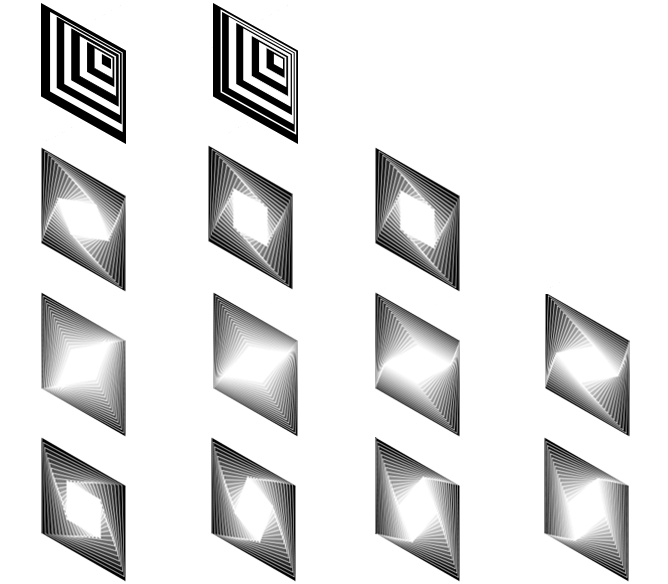
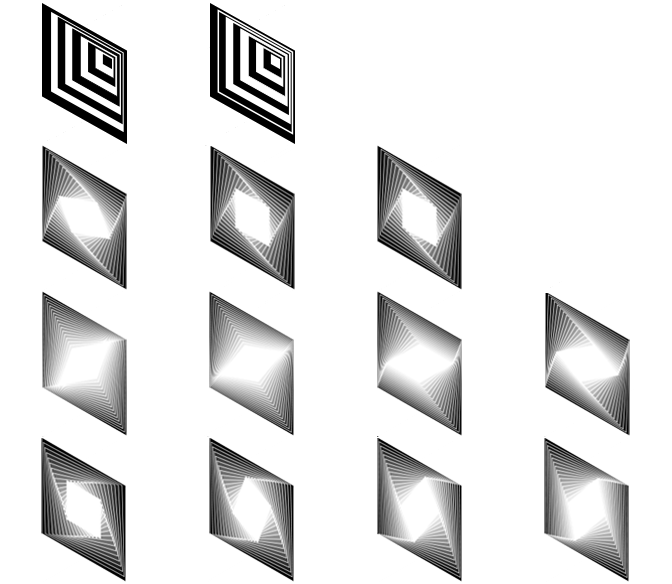
Animation visual updates.

diff --git a/Crystallography/Crystallography/CardCrystallonEntity.cs b/Crystallography/Crystallography/CardCrystallonEntity.cs
@@ -19,8 +19,12 @@ namespace Crystallography
 		protected readonly static float DEFAULT_SPEED = 0.3f;
 		
 //		protected readonly static BlendFunc animBlend = new BlendFunc(BlendFuncMode.Add, BlendFuncFactor.DstColor, BlendFuncFactor.SrcAlpha);
-		protected readonly static BlendFunc animBlend = new BlendFunc(BlendFuncMode.Subtract, BlendFuncFactor.DstColor, BlendFuncFactor.Zero);
+//		protected readonly static BlendFunc animBlend = new BlendFunc(BlendFuncMode.Subtract, BlendFuncFactor.DstColor, BlendFuncFactor.Zero);
 		
+//		protected ShaderProgram ShaderProgram;
+//		protected Texture2D AnimTexture;
+//		protected ImmediateModeQuads< VertexData > imm_quads;
+//		protected int frame;
 		
 		protected SpriteTile _anim;
 //		protected SpriteTile _mask;
@@ -31,7 +35,7 @@ namespace Crystallography
 		protected Label countdownText;
 		public int countdown;
 		
-		// GET & SET ----------------------------------------------------------------
+		// GET & SET ------------------------------------------------------------------------------------------------------------------------------------------------------
 		
 		public SpriteTile GlowSprite { get; protected set;}
 		
@@ -73,7 +77,7 @@ namespace Crystallography
 			}
 		}
 		
-		// CONSTRUCTORS -------------------------------------------------------------
+		// CONSTRUCTORS --------------------------------------------------------------------------------------------------------------------------------------------------
 		
 		/// <summary>
 		/// Initializes a new instance of the <see cref="Crystallography.CardCrystallonEntity"/> class.
@@ -99,14 +103,34 @@ namespace Crystallography
 			id = pId;
 			_anim = null;
 			GlowSprite = null;
-			_sprite.Scale*=0.7f;
+			_sprite.Scale*=CARD_SCALAR;
 			setVelocity(DEFAULT_SPEED, GameScene.Random.NextAngle());
+			
+//			Node dummy = new Node();
+//			dummy.Scale = 1/_sprite.Scale;
+//			_sprite.AddChild(dummy);
+//			dummy.AdHocDraw += DrawAnim;
+			
+//			ShaderProgram = new ShaderProgram("/Application/shaders/rotate.cgx");
+//			AnimTexture  = new Texture2D("/Application/assets/animation/animation2.png", false);
+//			frame = 0;
+//			
+//			dummy.ScheduleInterval( (dt) => {
+//				frame++;
+//				if (frame > 10) {
+//					frame = 0;
+//				}
+//			}, 0.083f, 0);
+//			
+//			imm_quads = new ImmediateModeQuads< VertexData >( Director.Instance.GL, 4, VertexFormat.Float2, VertexFormat.Float2, VertexFormat.Float4 );
+//			_scene.AdHocDraw += DrawAnim;
+			
 #if DEBUG
 			Console.WriteLine(this.GetType().ToString() + " " + id.ToString() + " created");
 #endif
 		}
 		
-		// OVERRIDES -----------------------------------------------------------------
+		// OVERRIDES ----------------------------------------------------------------------------------------------------------------------------------------------------
 		
 		public override AbstractCrystallonEntity BeReleased(Vector2 pPosition) {
 			if (!AppMain.ORIENTATION_MATTERS) {
@@ -148,7 +172,56 @@ namespace Crystallography
 //			}
 		}
 		
-		// METHODS -------------------------------------------------------------------
+		// METHODS ------------------------------------------------------------------------------------------------------------------------------------------------------
+		
+//		public void DrawAnim() {
+//			Director.Instance.DrawHelpers.DrawCircle(new Vector2(Width/2.0f,Height/2.0f),60.0f,32);
+//			float x1, x2, y1, y2;
+//			Matrix4 transform = Director.Instance.GL.GetMVP();
+//				
+//			Director.Instance.GL.ModelMatrix.Push();
+//			Director.Instance.GL.ModelMatrix.SetIdentity();
+//			
+//			ShaderProgram.SetUniformValue(ShaderProgram.FindUniform("MVP"), ref transform);
+////			ShaderProgram.SetUniformValue(ShaderProgram.FindUniform("angle"), ref angle);
+//
+//			ShaderProgram.SetAttributeBinding(0, "iPosition");
+//			ShaderProgram.SetAttributeBinding(1, "iUV");
+//			ShaderProgram.SetAttributeBinding(2, "iColor");
+//
+//			Director.Instance.GL.Context.SetShaderProgram(ShaderProgram);
+//			
+//			imm_quads.ImmBeginQuads( 4 );
+////			imm_quads.ImmBeginQuads( (uint)ActiveQualityParticles );
+//			
+////			int frame = 0;
+//			
+//			Vector4 white = Colors.White;
+//			var column = frame % 4;
+//			var row = (frame - column) / 4;
+//			
+//			y1 = 0.25f * row; //(float)System.Math.Floor((float)frame/4.0f);
+//			y2 = 0.25f + y1;
+//			x1 = 0.25f * column; //((float)frame-y1*4.0f);
+//			x2 = 0.25f + x1;
+//			
+//			Vector2 z = Vector2.Zero;
+//			
+//			Director.Instance.GL.Context.SetTexture(0, AnimTexture);
+//			imm_quads.ImmAddQuad( 
+//				new VertexData() { position = z + new Vector2(0, 0), uv = new Vector2(x1, 1.0f-y1), color = white },
+//				new VertexData() { position = z + new Vector2(Width, 0), uv = new Vector2(x2, 1.0f-y1), color = white },
+//				new VertexData() { position = z + new Vector2(0, Height), uv = new Vector2(x1, 1.0f-y2), color = white },
+//				new VertexData() { position = z + new Vector2(Width, Height), uv = new Vector2(x2, 1.0f-y2), color = white }
+//			);
+//			
+//			imm_quads.ImmEndQuads();
+//			
+//			Director.Instance.GL.Context.SetShaderProgram(null);
+//			Director.Instance.GL.Context.SetVertexBuffer(0, null);
+//			Director.Instance.GL.ModelMatrix.Pop();
+//			
+//		}
 		
 		public void ShowGlow() {
 			if (GlowSprite==null) return;
@@ -173,16 +246,23 @@ namespace Crystallography
 //			_mask.BlendMode.BlendFunc = new BlendFunc(BlendFuncMode.Add, BlendFuncFactor.DstColor, BlendFuncFactor.One);
 //			_anim.BlendMode.BlendFunc = new BlendFunc(BlendFuncMode.ReverseSubtract, BlendFuncFactor.One, BlendFuncFactor.OneMinusSrcColor);
 //			_anim.BlendMode.BlendFunc = new BlendFunc(BlendFuncMode.Add, BlendFuncFactor.DstAlpha, BlendFuncFactor.OneMinusSrcAlpha);
-			_anim.BlendMode.BlendFunc = animBlend;
-			_anim.BlendMode.Enabled = true;
+//			_anim.BlendMode.BlendFunc = animBlend;
+//			_anim.BlendMode.Enabled = true;
 			_anim.RunAction( new Support.AnimationAction(_anim, pStart, pEnd, 0.083f*(1+pEnd-pStart), true) );
 
 			if (getOrientation() == 1) {
-				_anim.Rotation = new Vector2(1f,0f);
+//				_anim.Rotation = new Vector2(1f,0f);
 			} else if (getOrientation() == 2) {
-				_anim.Rotation = new Vector2(0.515038074910054f, -0.857167300702112f);
+				_anim.FlipU = true;
+//				_anim.Rotate(Sce.PlayStation.HighLevel.GameEngine2D.Base.Math.Deg2Rad(-60.0f));
+//				_anim.Rotation = new Vector2(0.515038074910054f, -0.857167300702112f);
+//				_anim.Rotation = new Vector2(0.5f, -0.866025403784439f); //60
 			} else {
-				_anim.Rotation = new Vector2(0.484809620246337f, 0.874619707139396f);
+//				_anim.Pivot = new Vector2(0.52f,0.54f);
+				_anim.Position = new Vector2(0.00f, 0.015f);
+//				_anim.Rotation = new Vector2(0.484809620246337f, 0.874619707139396f);
+//				_anim.Rotation = new Vector2(0.5f, 0.866025403784439f);
+				_anim.Rotate(Sce.PlayStation.HighLevel.GameEngine2D.Base.Math.Deg2Rad(-120.0f));
 			}
 			this.getNode().AddChild(_anim);
 //			this.getNode().AddChild(_mask);
@@ -213,11 +293,18 @@ namespace Crystallography
 			countdownText.Text = countdown.ToString();
 		}
 		
-		// DESTRUCTOR -----------------------------------------------------------------------------------
+		// DESTRUCTOR ---------------------------------------------------------------------------------------------------------------------------------------------
 #if DEBUG
 		~CardCrystallonEntity() {
 			Console.WriteLine(GetType().ToString() + " deleted");
 		}
 #endif
 	}
+	
+	public struct VertexData
+	{
+		public Vector2 position;
+		public Vector2 uv;
+		public Vector4 color;
+	};
 }

diff --git a/Crystallography/Crystallography/CubeCrystallonEntity.cs b/Crystallography/Crystallography/CubeCrystallonEntity.cs
@@ -80,6 +80,7 @@ namespace Crystallography
 		public CubeCrystallonEntity(Scene pScene, GamePhysics pGamePhysics, PhysicsShape pShape = null ) 
 																			: base( pScene, pGamePhysics, pShape, 3, true ) {
 			setVelocity(DEFAULT_SPEED, GameScene.Random.NextAngle());
+//			_node.AdHocDraw += DrawAnim;
 		}
 			
 		// OVERRIDES -----------------------------------------------------------
@@ -127,6 +128,17 @@ namespace Crystallography
 //		}
 		
 		// METHODS -------------------------------------------------------------
+		
+//		public void DrawAnim() {
+////			Console.WriteLine("Draw");
+//			if ( _body != null ) {
+//				var bottomLeft = Vector2.Zero;
+//				var topRight = getPosition();
+//				Director.Instance.DrawHelpers.DrawCircle(Vector2.Zero,60.0f,32);
+////				Director.Instance.DrawHelpers.DrawBounds2Fill (
+////				new Bounds2(bottomLeft, topRight));
+//			}
+//		}
 		
 		public void Rotate ( bool pClockwise ) {
 			if (pClockwise) {

diff --git a/Crystallography/Crystallography/SpriteTileCrystallonEntity.cs b/Crystallography/Crystallography/SpriteTileCrystallonEntity.cs
@@ -86,8 +86,7 @@ namespace Crystallography
 			} else {
 				_body = null;
 			}
-			
-			Scheduler.Instance.Schedule(_sprite, Update, 0, false, 0);
+			Scheduler.Instance.Schedule(_sprite, Update, 0.0f, false);
 		}
 		
 		// OVERRIDES------------------------------------------------------------------------------

diff --git a/Crystallography/Crystallography/Support.cs b/Crystallography/Crystallography/Support.cs
@@ -580,6 +580,7 @@ namespace Crystallography
 				Director.Instance.GL.ModelMatrix.SetIdentity();
 
 				ShaderProgram.SetUniformValue(ShaderProgram.FindUniform("MVP"), ref transform);
+				
 
 				ShaderProgram.SetAttributeBinding(0, "iPosition");
 				ShaderProgram.SetAttributeBinding(1, "iUV");
